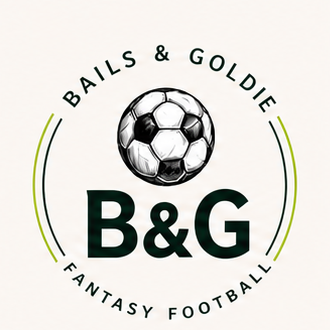
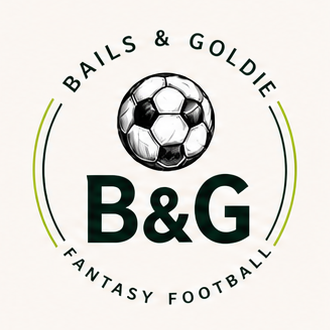
Centre artwork inside login crest

Changed region(s): [[0.0909, 0.0909, 0.9091, 0.9697], [0.4545, 0.0909, 0.5152, 0.1818]]

diff --git a/app/globals.css b/app/globals.css
@@ -1,5 +1,5 @@
 @import url('https://fonts.googleapis.com/css2?family=DM+Mono:wght@400;500&family=Manrope:wght@400;500;600;700;800&family=Playfair+Display:ital,wght@0,600;0,700;1,600&display=swap');
-.login-brand{align-items:center!important;padding:clamp(48px,8vw,110px)!important}.login-brand:after{display:none!important}.login-crest-frame{position:relative;z-index:1;width:min(440px,72%);aspect-ratio:1;padding:4px;border-radius:50%;background:#fff;box-shadow:0 0 0 3px var(--lime),0 22px 48px #00000034;transform:translateY(14px)}.login-crest{display:block;width:100%;height:100%;object-fit:cover;border-radius:50%}@media(max-width:760px){.login-brand{min-height:310px;padding:42px 28px!important}.login-crest-frame{width:min(250px,62vw);padding:3px;box-shadow:0 0 0 2px var(--lime),0 16px 35px #0000002c;transform:translateY(8px)}}
+.login-brand{align-items:center!important;padding:clamp(48px,8vw,110px)!important}.login-brand:after{display:none!important}.login-crest-frame{position:relative;z-index:1;width:min(440px,72%);aspect-ratio:1;padding:4px;border-radius:50%;background:#fff;box-shadow:0 0 0 3px var(--lime),0 22px 48px #00000034}.login-crest{display:block;width:100%;height:100%;object-fit:cover;border-radius:50%}@media(max-width:760px){.login-brand{min-height:310px;padding:42px 28px!important}.login-crest-frame{width:min(250px,62vw);padding:3px;box-shadow:0 0 0 2px var(--lime),0 16px 35px #0000002c}}
 .brand-logo-link{width:230px;height:62px;flex:0 0 230px}.brand-logo-image{display:block;width:230px;height:62px;object-fit:contain}
 .league-dashboard{padding:54px 0 72px}
 .personal-performance>strong{display:block;position:relative;z-index:1;color:var(--lime);font:700 38px/.95 'DM Mono';letter-spacing:-2px;margin:18px 0 8px}.personal-performance p:not(.eyebrow){position:relative;z-index:1;margin:0;color:#d1ddd6;font-size:12px}.personal-performance h2{position:relative;z-index:1;margin-bottom:0}